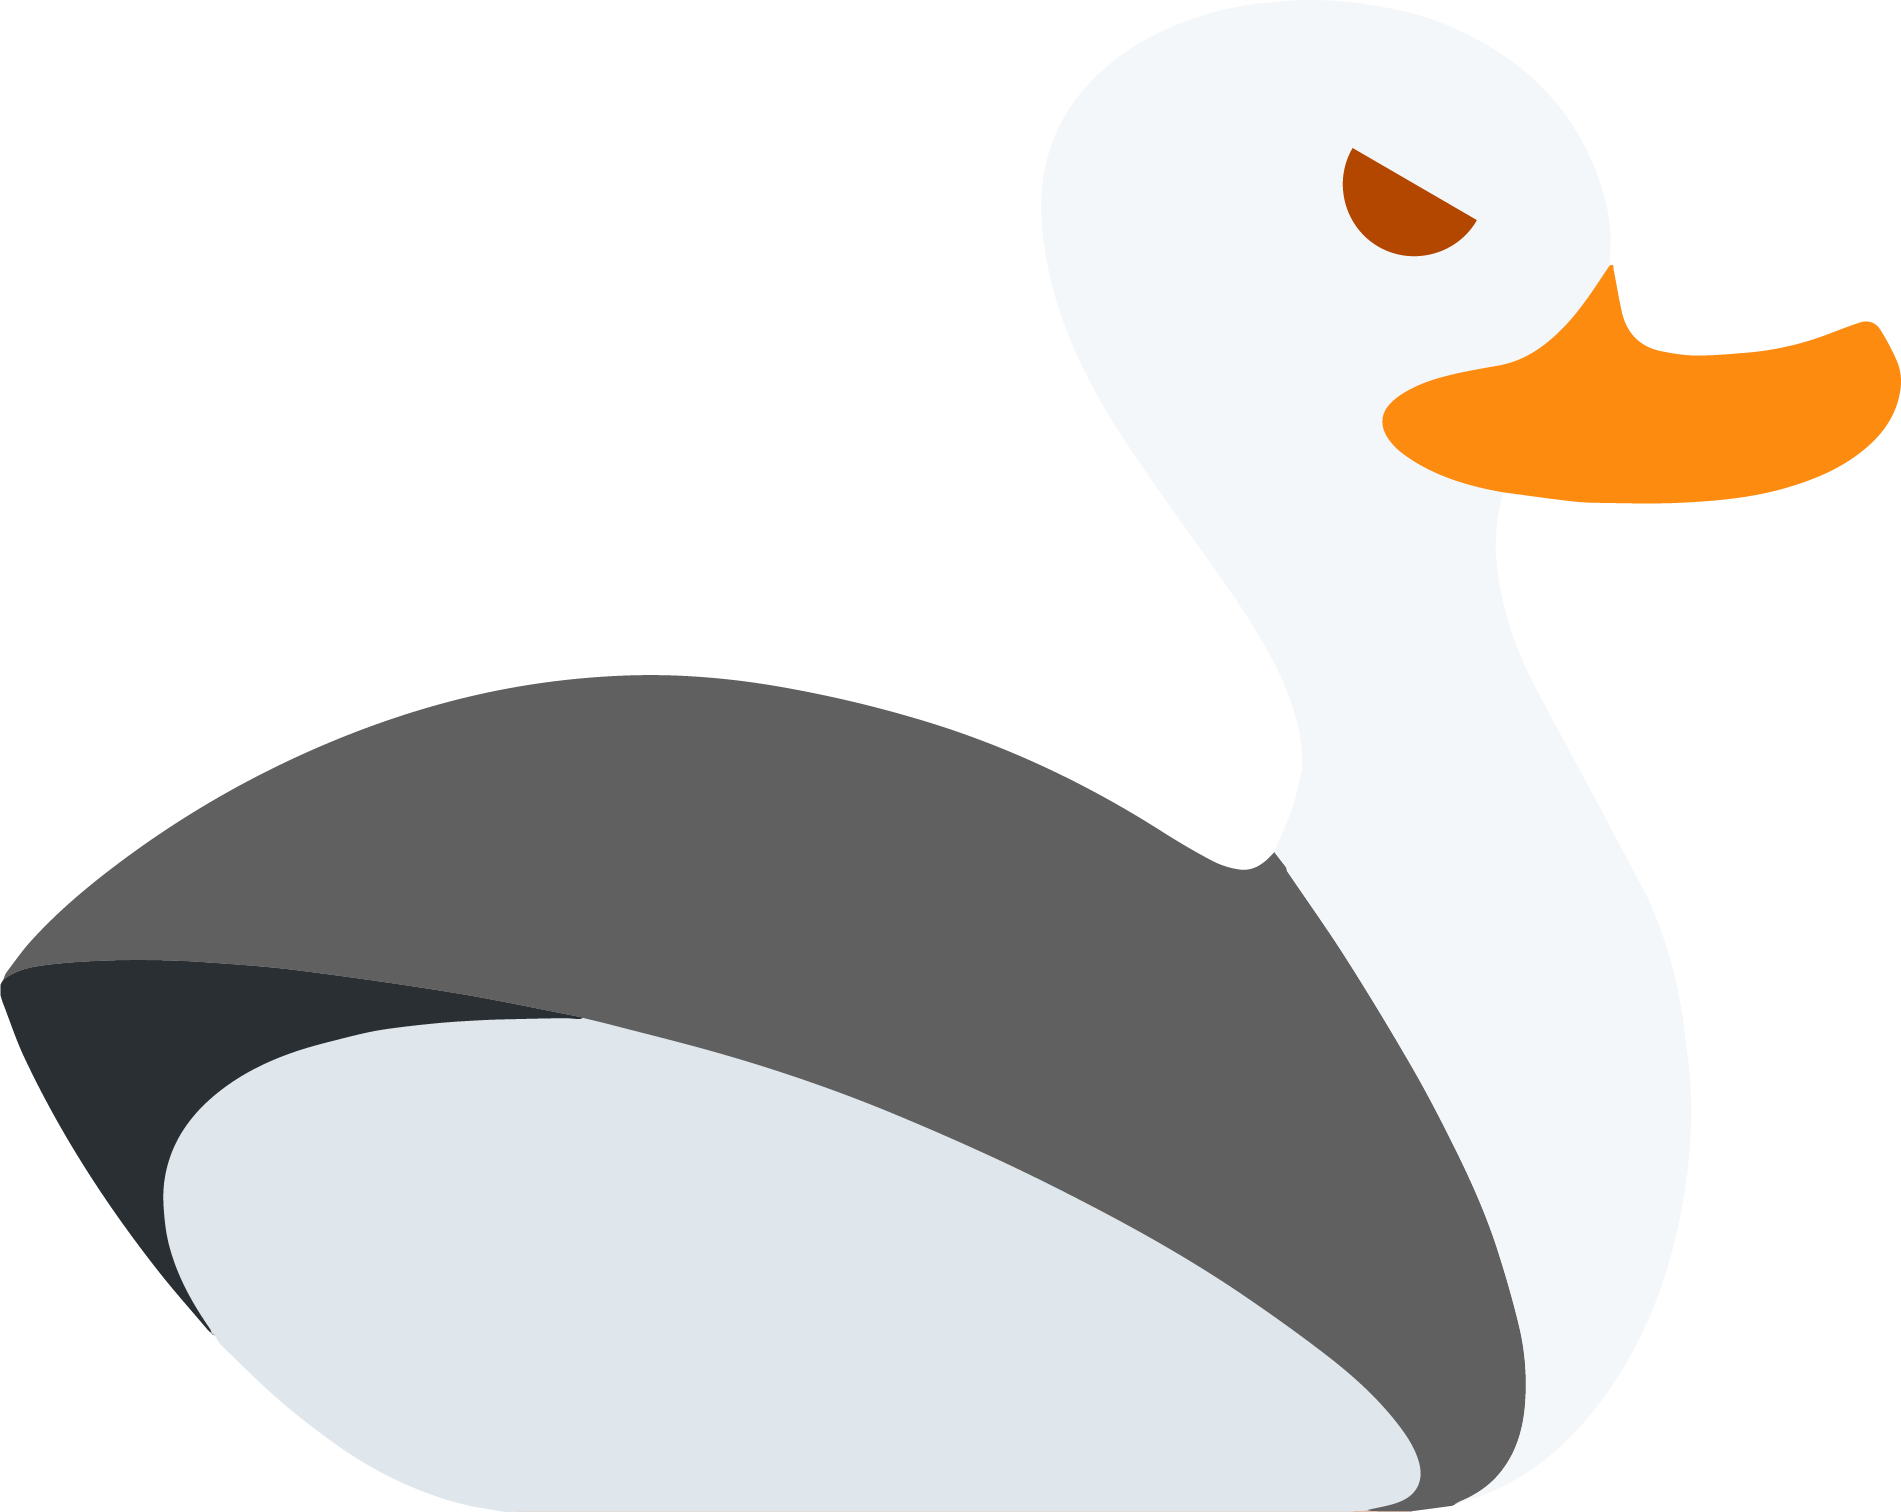
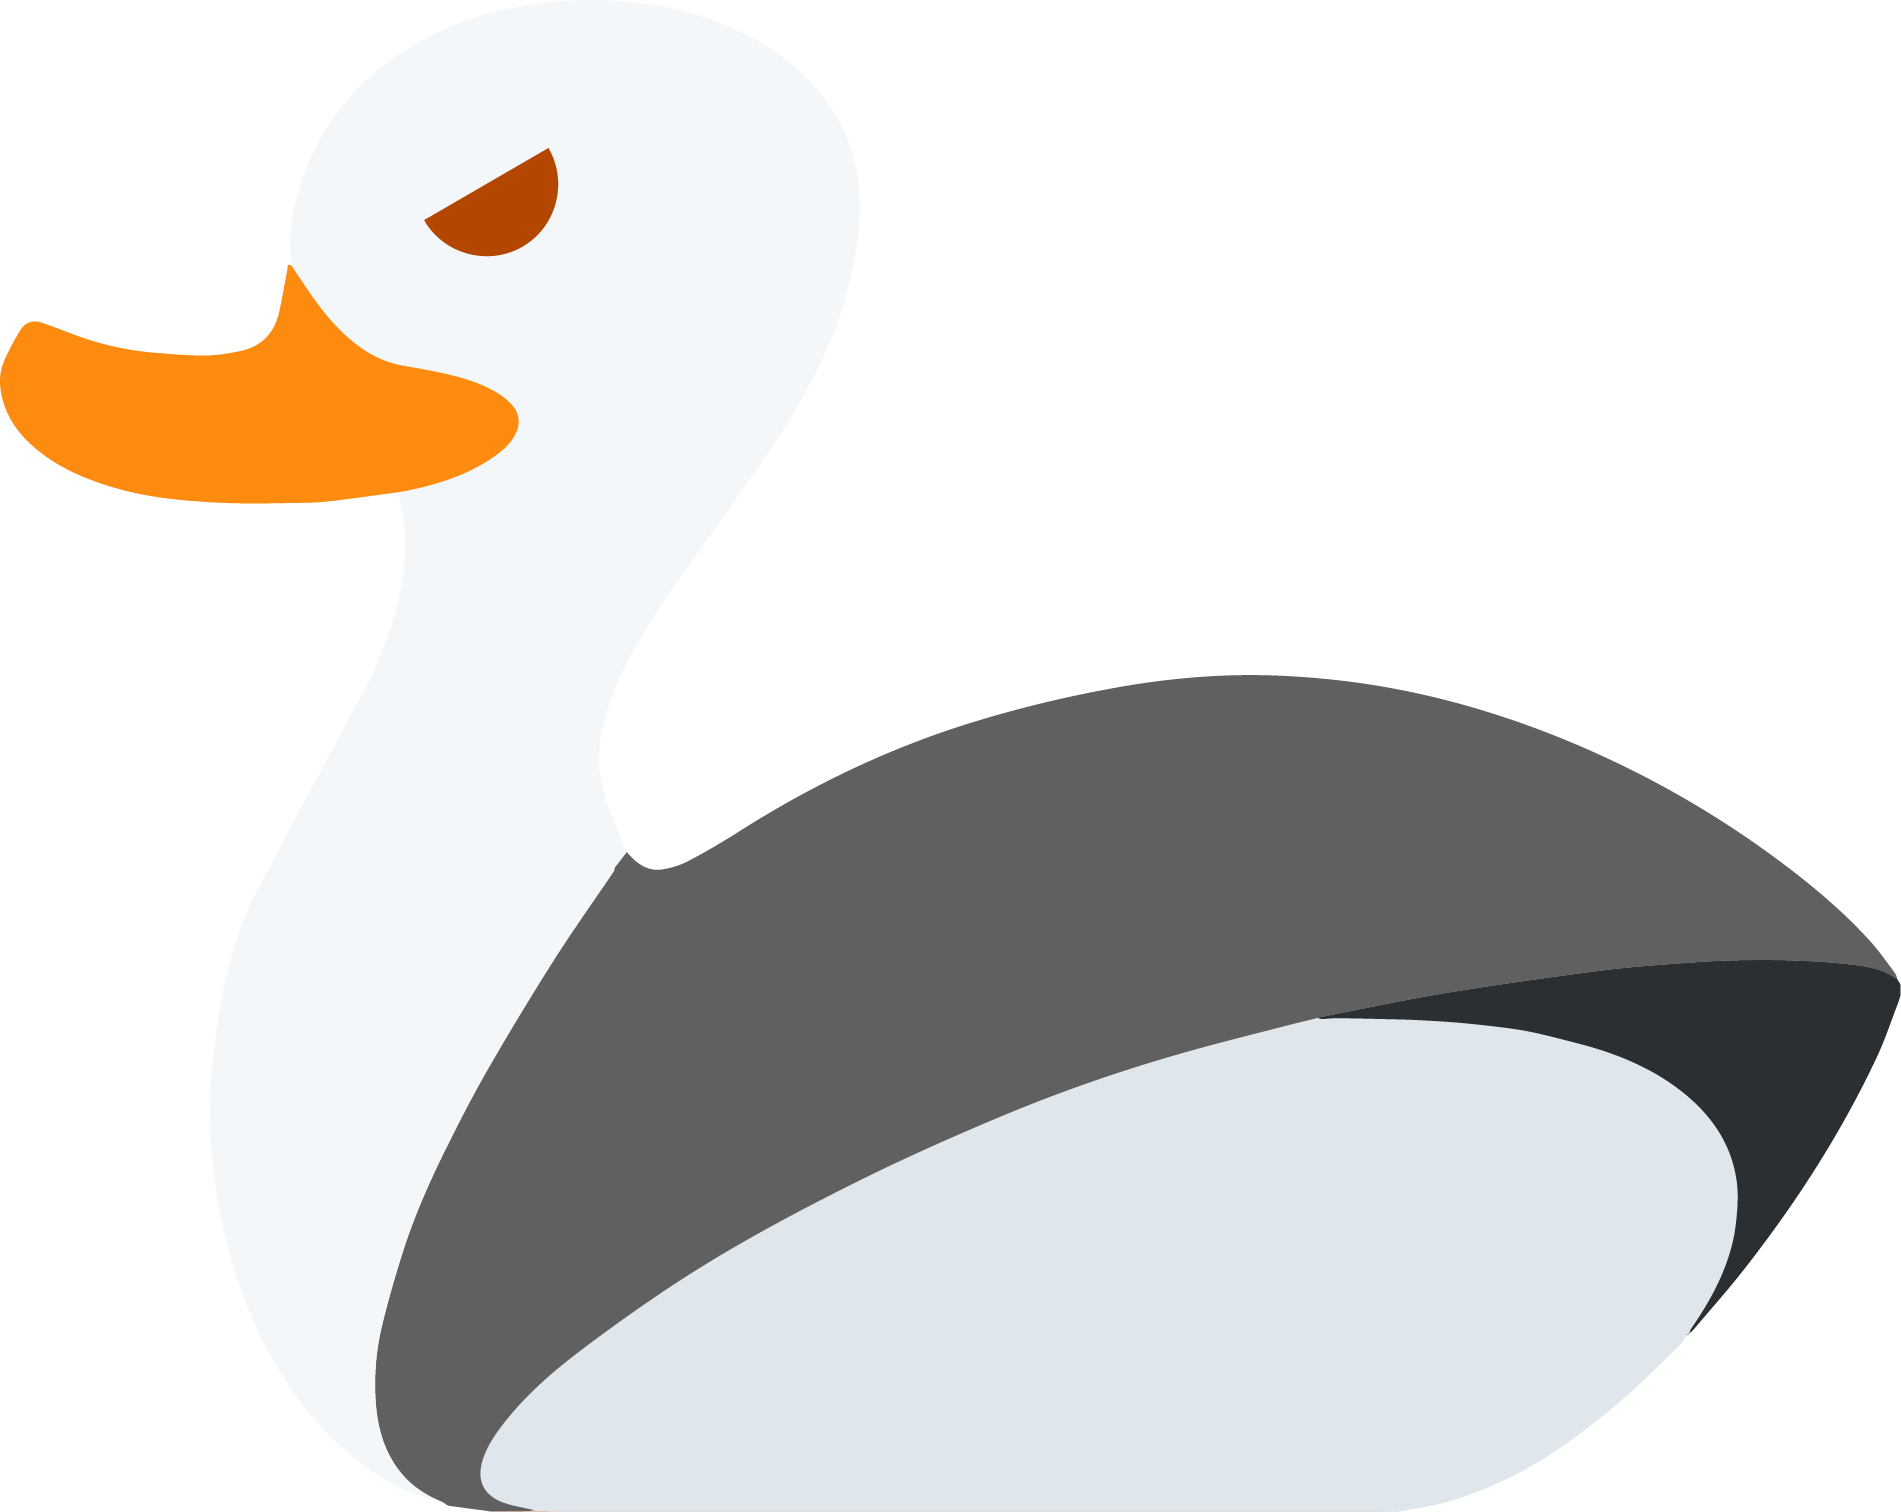
MIN - Implemented flipped ducks

diff --git a/FrontEnd/js/gamemode1.js b/FrontEnd/js/gamemode1.js
@@ -1,6 +1,6 @@
 //#region *** variablen definieren ***
 
-var duckP1, duckP2, duckHitbox, target, targetDetection, targetDetection2, targetDetection3, targetDetection4, targetDetection5, progressbarBackground, progressbarHealth;
+var duckP1, duckP2, duckHitbox, target, targetDetection, targetDetection2, targetDetection3, targetDetection4, targetDetection5, progressbarBackground, progressbarHealth, path;
 var lblScore, score, checkScore, timerOn, lblSecondsPast, frames, secondsPast = 0,
     countdownTimer, lblCountdownTimer, checkSecondsPast = 0,
     previousTimestampHR = 0,
@@ -25,7 +25,8 @@ timerOn = false;
 //#region *** loadgame function (components aanmaken voor canvas) ***
 const loadGame = function() {
     //alle componenten aanmaken
-    duckP1 = new component("duck", (viewport * 0.045), (viewport * 0.045), characters[duckPlayer1], (viewport * 0.07), (viewportHeight * 0.425), "image");
+    path = "./img/characters";
+    duckP1 = new component("duck", (viewport * 0.045), (viewport * 0.045), path + characters[duckPlayer1], (viewport * 0.07), (viewportHeight * 0.425), "image");
     lblScore = new component("score", "30px", "Roboto", "black", (viewport * 0.78125), (viewport * 0.055), "text");
     lblSecondsPast = new component("timer", "30px", "Roboto", "black", (viewport * 0.78125), (viewport * 0.025), "text");
     target = new component("target", (viewport * 0.146484375), (viewport * 0.048828125), links[2], (viewport * 0.5859375), (viewportHeight * 0.95) - (viewportHeight * 0.05), "image");
@@ -42,7 +43,8 @@ const loadGame = function() {
     lblDeltaHR = new component("HR", "30px", "Roboto", "black", (viewport * 0.78125), (viewport * 0.085), "text");
     lblDeltaHR2 = new component("HR", "30px", "Roboto", "black", (viewport * 0.78125), (viewport * 0.115), "text");
 
-    duckP2 = new component("duck", (viewport * 0.045), (viewport * 0.045), characters[duckPlayer2], (viewport * 0.01), (viewportHeight * 0.6), "image");
+    path = "./img/charactersflipped";
+    duckP2 = new component("duck", (viewport * 0.045), (viewport * 0.045), path + characters[duckPlayer2], (viewport * 0.01), (viewportHeight * 0.6), "image");
 
     frames = 0; //aantal frames op 0 zetten
     secondsPast = 0; //tijd in seconden op 0 zetten

diff --git a/FrontEnd/js/gamemode5.js b/FrontEnd/js/gamemode5.js
@@ -4,13 +4,15 @@ var target2, target2Detection, target2Detection2, target2Detection3, target2Dete
 //#region *** loadgame function (components aanmaken voor canvas) ***
 const loadGamemode5 = function() {
     //alle componenten aanmaken
-    duckP1 = new component("duck", (viewport * 0.045), (viewport * 0.045), characters[duckPlayer1], (viewport * 0.07), (viewportHeight * 0.425), "image");
+    path = "./img/characters";
+    duckP1 = new component("duck", (viewport * 0.045), (viewport * 0.045),  path + characters[duckPlayer1], (viewport * 0.07), (viewportHeight * 0.425), "image");
     lblScore = new component("score", "30px", "Roboto", "black", (viewport * 0.78125), (viewport * 0.055), "text");
     duckHitbox = new component("duckhitbox", 1, 1, "black", (viewport * 0.0925), (viewportHeight * 0.515)); //hitbox en duck zijn 2 componenten maar alle movement is 2 keer
     mybackground = new component("bg", viewport, (viewportHeight), links[3], 0, 0, "image");
     lblDeltaHR = new component("HR", "30px", "Roboto", "black", (viewport * 0.78125), (viewport * 0.085), "text");
     lblCountdownTimer = new component("score", "300px", "Roboto", "orange", (viewport * 0.45), (viewport * 0.3), "text");
-    duckP2 = new component("duck2", (viewport * 0.045), (viewport * 0.045), characters[duckPlayer2], viewport - (viewport * 0.115), (viewportHeight * 0.425), "image");
+    path = "./img/charactersflipped";
+    duckP2 = new component("duck2", (viewport * 0.045), (viewport * 0.045), path + characters[duckPlayer2], viewport - (viewport * 0.115), (viewportHeight * 0.425), "image");
     lblDeltaHR2 = new component("HR", "30px", "Roboto", "black", (viewport * 0.78125), (viewport * 0.115), "text");
     target = new component("target", (viewport * 0.146484375), (viewport * 0.048828125), links[2], (viewport * 0.5859375), (viewportHeight * 0.95) - (viewportHeight * 0.05), "image");
     targetDetection = new component("target", (viewport * 0.048828125), 1, "yellow", (viewport * 0.634765625), (viewportHeight * 0.999) - (viewportHeight * 0.05));

diff --git a/FrontEnd/js/CommonActions.js b/FrontEnd/js/CommonActions.js
@@ -17,21 +17,20 @@ var canShoot, CalmHR = 1000,
     canAlert = true,
     hearts, isHeart1Red = false,
     isHeart2Red = false;
-
 var characters = ["", "", "", "", "", "", "", "", ""],
     gameSelections = ["", "", "", ""];
 for (link of characters) {
     link = document.createElement('character');
 }
-characters[0] = "./img/characters/Duck_Male1.png";
-characters[1] = "./img/characters/Duck_Male2.png";
-characters[2] = "./img/characters/Duck_Male3.png";
-characters[3] = "./img/characters/Duck_Female1.png";
-characters[4] = "./img/characters/Duck_Female2.png";
-characters[5] = "./img/characters/Duck_Female3.png";
-characters[6] = "./img/characters/Duck_White.png";
-characters[7] = "./img/characters/Duck_Yellow.png";
-characters[8] = "./img/characters/Duck_Gray.png";
+characters[0] = "/Duck_Male1.png";
+characters[1] = "/Duck_Male2.png";
+characters[2] = "/Duck_Male3.png";
+characters[3] = "/Duck_Female1.png";
+characters[4] = "/Duck_Female2.png";
+characters[5] = "/Duck_Female3.png";
+characters[6] = "/Duck_White.png";
+characters[7] = "/Duck_Yellow.png";
+characters[8] = "/Duck_Gray.png";
 
 for (link of gameSelections) {
     link = document.createElement('gameSelection');
@@ -305,11 +304,13 @@ const characterSelection = function(Number) {
                 break; //player 1 right   
         }
     }
-    document.getElementById("0").src = characters[duckPlayer1];
-    document.getElementById("1").src = characters[duckPlayer1];
-    document.getElementById("2").src = characters[duckPlayer2];
-    document.getElementById("DuckP1Connect").src = characters[duckPlayer1];
-    document.getElementById("DuckP2Connect").src = characters[duckPlayer2];
+    path  = "./img/characters";
+    document.getElementById("0").src = path + characters[duckPlayer1];
+    document.getElementById("1").src = path + characters[duckPlayer1];
+    document.getElementById("DuckP2Connect").src = path + characters[duckPlayer2];
+    
+    path = "./img/charactersflipped";
+    document.getElementById("2").src = path + characters[duckPlayer2];
 }
 
 

diff --git a/FrontEnd/js/gamemode3.js b/FrontEnd/js/gamemode3.js
@@ -8,13 +8,16 @@ var loadAlldetection, score1, rounds = 3;
 //#region *** loadgame function (components aanmaken voor canvas) ***
 const loadGamemode3 = function() {
     //alle componenten aanmaken
-    duckP1 = new component("duck", (viewport * 0.045), (viewport * 0.045), characters[duckPlayer1], (viewport * 0.07), (viewportHeight * 0.425), "image");
+    path = "./img/characters";
+    duckP1 = new component("duck", (viewport * 0.045), (viewport * 0.045), path + characters[duckPlayer1], (viewport * 0.07), (viewportHeight * 0.425), "image");
     lblScore = new component("score", "30px", "Roboto", "black", (viewport * 0.78125), (viewport * 0.055), "text");
     duckHitbox = new component("duckhitbox", 1, 1, "black", (viewport * 0.0925), (viewportHeight * 0.515)); //hitbox en duck zijn 2 componenten maar alle movement is 2 keer
     mybackground = new component("bg", viewport, (viewportHeight), links[1], 0, 0, "image");
     lblDeltaHR = new component("HR", "30px", "Roboto", "black", (viewport * 0.78125), (viewport * 0.085), "text");
     lblCountdownTimer = new component("score", "300px", "Roboto", "orange", (viewport * 0.45), (viewport * 0.3), "text");
-    duckP2 = new component("duck", (viewport * 0.045), (viewport * 0.045), characters[duckPlayer2], (viewport * 0.01), (viewportHeight * 0.6), "image");
+    
+    path = "./img/charactersflipped";
+    duckP2 = new component("duck", (viewport * 0.045), (viewport * 0.045), path + characters[duckPlayer2], (viewport * 0.01), (viewportHeight * 0.6), "image");
     lblDeltaHR2 = new component("HR", "30px", "Roboto", "black", (viewport * 0.78125), (viewport * 0.115), "text");
     // for (let index = 0; index < 10; index++) {
     //     distancedetection.push(new component("target", 1, 1, "red", (viewport * 0.382) + (index * (viewport * 0.064453125)), (viewportHeight * 0.999) - (viewportHeight * 0.05)));

diff --git a/FrontEnd/index.html b/FrontEnd/index.html
@@ -63,7 +63,7 @@
                 <div class="avatar js-player2">
                     <div class="c-character-selection">
                         <button class="o-hide-accessible btn-nav" onclick="characterSelection(3);"><svg xmlns="http://www.w3.org/2000/svg" height="24" viewBox="0 0 24 24" width="24" transform="scale(-4,4)"><path d="M0 0h24v24H0z" fill="none"/><path d="M10 6L8.59 7.41 13.17 12l-4.58 4.59L10 18l6-6z"/></svg></button>
-                        <img src="img/characters/Duck_Female1.png" alt="Avatar player 1" draggable="false" width="200px" id="2" />
+                        <img src="img/charactersflipped/Duck_Female1.png" alt="Avatar player 1" draggable="false" width="200px" id="2" />
                         <button class="o-hide-accessible btn-nav" onclick="characterSelection(4);"><svg xmlns="http://www.w3.org/2000/svg" height="24" viewBox="0 0 24 24" width="24" transform="scale(4,4)"><path d="M0 0h24v24H0z" fill="none"/><path d="M10 6L8.59 7.41 13.17 12l-4.58 4.59L10 18l6-6z"/></svg></button>
                     </div>
                     <input type="text" class="name js-player2name" placeholder="speler 1" />
